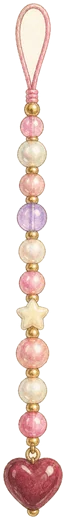
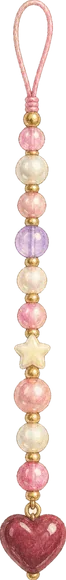
Add G7X looks, three painted digicam bodies and keychain skins; clear strap loop

Changed region(s): [[0.0, 0.0, 1.0, 1.0], [0.6667, 0.2769, 0.7576, 0.3077], [0.5455, 0.4923, 0.6061, 0.5231]]

diff --git a/style.css b/style.css
@@ -651,3 +651,67 @@ body[data-body="compact"] .menu { top: 56%; bottom: 2%; left: 4%; right: 4%; }
 .sticker-actions .pix-btn { flex: 1; }
 #stickerSize { flex: 1; accent-color: #e8ccd8; }
 .tab { padding-left: 0; padding-right: 0; font-size: clamp(12px, 4.3cqw, 16px) !important; letter-spacing: 0 !important; }
+
+/* ---------- painted digicams (sage, white, jewel): zoomed, painted buttons are live ---------- */
+body[data-kind="digi"] .cam::before, body[data-kind="digi"] .hit-power, body[data-kind="digi"] .peek,
+body[data-kind="digi"] #shutterLabel { display: none; }
+body[data-kind="digi"] .desk { --cam-w: min(94vw, calc((100dvh - 110px) * var(--ar)), 460px); }
+body[data-kind="digi"] .screen { left: var(--sl); top: var(--st); width: var(--sw); height: var(--sh); border-radius: 1.2cqw; }
+body[data-kind="digi"] .lug { left: 1.2%; top: 2.4%; }
+body[data-kind="digi"] .strap { left: -6%; top: 3.2%; height: 36%; }
+body[data-kind="digi"] .menu { top: 58%; bottom: 2%; left: 4%; right: 4%; }
+body[data-kind="digi"] .hit-pill span, body[data-kind="digi"] .hit-func span {
+  position: absolute; top: 100%; left: 50%; transform: translateX(-50%);
+  font-size: 3.4cqw; color: var(--graphite); text-shadow: 0 1px 0 rgba(255, 255, 255, 0.8); white-space: nowrap;
+}
+body[data-kind="digi"] .hit-pill, body[data-kind="digi"] .hit-func { border-radius: 40px; }
+body[data-kind="digi"] .hit-shutter { border-radius: 50%; }
+body[data-kind="digi"] .mode-label { font-size: 3.4cqw; }
+
+body[data-body="sage"] .desk { --ar: 0.6696; }
+body[data-body="sage"] .cam { aspect-ratio: 460 / 687; --sl: 8.1%; --st: 12.5%; --sw: 79.4%; --sh: 45.4%; }
+body[data-body="sage"] .hit-func { left: 11%; top: 65%; width: 13%; height: 5.4%; }
+body[data-body="sage"] .p1 { left: 11%; top: 72.2%; width: 13%; height: 5.4%; }
+body[data-body="sage"] .p2 { left: 11%; top: 79.4%; width: 13%; height: 5.4%; }
+body[data-body="sage"] .hit-func span, body[data-body="sage"] .p1 span, body[data-body="sage"] .p2 span { top: 50%; transform: translate(-50%, -50%); font-size: 3cqw; text-shadow: none; }
+body[data-body="sage"] .p3 { left: 40%; top: 89%; width: 16%; height: 7%; }
+body[data-body="sage"] .p3 span { top: 50%; left: auto; right: -8%; transform: translate(100%, -50%); }
+body[data-body="sage"] .dp-up { left: 40%; top: 63.5%; width: 15%; height: 6.5%; }
+body[data-body="sage"] .dp-down { left: 40%; top: 80.5%; width: 15%; height: 6.5%; }
+body[data-body="sage"] .dp-left { left: 30%; top: 70.5%; width: 10.5%; height: 9%; }
+body[data-body="sage"] .dp-right { left: 54.5%; top: 70.5%; width: 10.5%; height: 9%; }
+body[data-body="sage"] .hit-shutter { left: 41%; top: 71%; width: 13%; height: 8%; }
+body[data-body="sage"] .mode-switch { left: 74.5%; top: 66.5%; width: 11.5%; height: 19%; }
+body[data-body="sage"] .mode-label { left: 74.5%; top: 86.5%; width: 11.5%; }
+
+body[data-body="white"] .desk { --ar: 0.6216; }
+body[data-body="white"] .cam { aspect-ratio: 460 / 740; --sl: 10.4%; --st: 6.5%; --sw: 79.2%; --sh: 47.4%; }
+body[data-body="white"] .hit-func { left: 9%; top: 64%; width: 16%; height: 9.5%; border-radius: 50%; }
+body[data-body="white"] .p1 { left: 7%; top: 89%; width: 24%; height: 5.5%; }
+body[data-body="white"] .p2 { left: 38%; top: 89%; width: 24%; height: 5.5%; }
+body[data-body="white"] .p3 { left: 69%; top: 89%; width: 24%; height: 5.5%; }
+body[data-body="white"] .p1 span, body[data-body="white"] .p2 span, body[data-body="white"] .p3 span { top: 50%; transform: translate(-50%, -50%); font-size: 3.6cqw; }
+body[data-body="white"] .dp-up { left: 40%; top: 61.5%; width: 20%; height: 6.5%; }
+body[data-body="white"] .dp-down { left: 40%; top: 80%; width: 20%; height: 6.5%; }
+body[data-body="white"] .dp-left { left: 30%; top: 68%; width: 11%; height: 11.5%; }
+body[data-body="white"] .dp-right { left: 59%; top: 68%; width: 11%; height: 11.5%; }
+body[data-body="white"] .hit-shutter { left: 41%; top: 68%; width: 18%; height: 11.5%; }
+body[data-body="white"] .mode-switch { left: 77%; top: 64%; width: 11%; height: 19.5%; }
+body[data-body="white"] .mode-label { left: 77%; top: 83.5%; width: 11%; }
+
+body[data-body="jewel"] .desk { --ar: 0.638; }
+body[data-body="jewel"] .cam { aspect-ratio: 460 / 721; --sl: 10.1%; --st: 8.8%; --sw: 79.4%; --sh: 48.9%; }
+body[data-body="jewel"] .hit-func { left: 56%; top: 68.5%; width: 11%; height: 5.5%; }
+body[data-body="jewel"] .p1 { left: 68.5%; top: 68.5%; width: 11%; height: 5.5%; }
+body[data-body="jewel"] .p2 { left: 81%; top: 68.5%; width: 11%; height: 5.5%; }
+body[data-body="jewel"] .p3 { left: 8%; top: 80%; width: 14%; height: 9%; border-radius: 50%; }
+body[data-body="jewel"] .dp-up { left: 28%; top: 62%; width: 14%; height: 6.5%; }
+body[data-body="jewel"] .dp-down { left: 28%; top: 78%; width: 14%; height: 6.5%; }
+body[data-body="jewel"] .dp-left { left: 19%; top: 68%; width: 10.5%; height: 9%; }
+body[data-body="jewel"] .dp-right { left: 41.5%; top: 68%; width: 10.5%; height: 9%; }
+body[data-body="jewel"] .hit-shutter { left: 29.5%; top: 68.5%; width: 12%; height: 8.5%; }
+body[data-body="jewel"] .mode-switch { left: 57%; top: 79.3%; width: 31%; height: 7.5%; }
+body[data-body="jewel"] .mode-switch .mode { top: 0; bottom: auto; width: 50%; height: 100%; }
+body[data-body="jewel"] .mode-switch .mode[data-mode="video"] { left: 50%; }
+body[data-body="jewel"] .mode-switch .mode.active::after { right: auto; left: 50%; top: 112%; margin: 0 0 0 -3.5px; }
+body[data-body="jewel"] .mode-label { left: 57%; top: 88%; width: 31%; }

diff --git a/script.js b/script.js
@@ -916,6 +916,7 @@
       $("gridOverlay").hidden = !(app.mode === "camera" && app.grid);
     });
     makeChips($("deviceChips"), DEVICES, () => device, setDevice);
+    makeChips($("strapChips"), STRAPS, () => strapId, setStrap); paintStrap();
     paintBody();
     makeChips($("soundChips"), [{ id: "on", name: "Beep" }, { id: "off", name: "Quiet" }], () => (app.sound ? "on" : "off"), (v) => { app.sound = v === "on"; });
 
@@ -941,16 +942,41 @@
     { id: "phone4s", name: "White phone" },
     { id: "phone5c", name: "Lilac phone" },
     { id: "compact", name: "Silver compact" },
+    { id: "sage", name: "Sage bow cam" },
+    { id: "white", name: "Milk cam" },
+    { id: "jewel", name: "Jewel cam" },
   ];
+  const DIGI = ["sage", "white", "jewel"];
+  const STRAPS = [
+    { id: "beads", name: "Beads", src: "img/strap.webp", x: 0.506 },
+    { id: "silver", name: "Silver heart", src: "img/strap-silver.webp", x: 0.515 },
+    { id: "gingham", name: "Cherry bow", src: "img/strap-gingham.webp", x: 0.513 },
+    { id: "pearl", name: "Sakura pearl", src: "img/strap-pearl.webp", x: 0.514 },
+    { id: "clover", name: "Lucky clover", src: "img/strap-clover.webp", x: 0.444 },
+    { id: "bunny", name: "Bunny", src: "img/strap-bunny.webp", x: 0.532 },
+    { id: "none", name: "None" },
+  ];
+  let strapId = "beads";
+  try { const v = localStorage.getItem("tt-strap"); if (STRAPS.some((x) => x.id === v)) strapId = v; } catch (e) {}
+  function paintStrap() {
+    const k = STRAPS.find((x) => x.id === strapId), st = $("strap");
+    st.hidden = !k.src; document.querySelector(".lug").hidden = !k.src;
+    if (!k.src) return;
+    const place = () => { st.style.marginLeft = (-(k.x - 0.5) * st.offsetWidth) + "px"; st.style.transformOrigin = (k.x * 100) + "% 1.5%"; };
+    st.onload = place;
+    if (!st.src.endsWith(k.src + "?v=18")) st.src = k.src + "?v=18"; else place();
+    st.classList.remove("jiggle"); void st.offsetWidth; st.classList.add("jiggle");
+  }
+  function setStrap(id) { strapId = id; try { localStorage.setItem("tt-strap", id); } catch (e) {} paintStrap(); }
   let device = "pink";
   try { const d = localStorage.getItem("tt-device"); if (DEVICES.some((x) => x.id === d)) device = d; } catch (e) {}
   function paintBody() {
     const body = device;
     if (document.body.dataset.body === body) return;
     document.body.dataset.body = body;
-    $("camArt").src = body === "pink" ? "img/camera-blank.webp" : `img/body-${body}.webp?v=15`;
-    const st = $("strap");
-    st.classList.remove("jiggle"); void st.offsetWidth; st.classList.add("jiggle");
+    if (DIGI.includes(body)) document.body.dataset.kind = "digi"; else delete document.body.dataset.kind;
+    $("camArt").src = body === "pink" ? "img/camera-blank.webp" : `img/body-${body}.webp?v=18`;
+    requestAnimationFrame(() => paintStrap());
   }
   // sticker panel
   let ownStickers = [];
@@ -1803,7 +1829,7 @@
     if ("serviceWorker" in navigator && location.protocol === "https:") {
       navigator.serviceWorker.register("sw.js").catch(() => {});
     }
-    window.__tt = { app, get S() { return S; }, loadImageBlob, renderThumbs, renderPreview, stepLook, setMode, startLoop };
+    window.__tt = { app, get S() { return S; }, renderStill, loadImageBlob, renderThumbs, renderPreview, stepLook, setMode, startLoop };
   }
 
   boot();

diff --git a/index.html b/index.html
@@ -17,7 +17,7 @@
   <link rel="preconnect" href="https://fonts.googleapis.com">
   <link rel="preconnect" href="https://fonts.gstatic.com" crossorigin>
   <link href="https://fonts.googleapis.com/css2?family=Cherry+Bomb+One&family=Pixelify+Sans:wght@400;600&display=swap" rel="stylesheet">
-  <link rel="stylesheet" href="style.css?v=16">
+  <link rel="stylesheet" href="style.css?v=18">
 </head>
 <body class="mode-empty" data-body="pink">
   <div class="desk">
@@ -38,7 +38,7 @@
     <main class="cam" id="cam">
       <img class="cam-art" id="camArt" src="img/camera-blank.webp" alt="" aria-hidden="true">
       <i class="lug" aria-hidden="true"></i>
-      <img class="strap" id="strap" src="img/strap.webp" alt="" aria-hidden="true">
+      <img class="strap" id="strap" src="img/strap.webp?v=18" alt="" aria-hidden="true">
 
       <button id="powerBtn" class="hit hit-power" type="button" aria-label="Power camera on or off"><i class="led"></i></button>
 
@@ -141,6 +141,8 @@
           <div class="panel" id="panel-setup">
             <p class="menu-label">DEVICE</p>
             <div class="chips" id="deviceChips"></div>
+            <p class="menu-label">KEYCHAIN</p>
+            <div class="chips" id="strapChips"></div>
             <p class="menu-label">PICTURE SIZE</p>
             <div class="chips" id="aspectChips"></div>
             <p class="menu-label">GRID</p>
@@ -240,7 +242,7 @@
   <div id="toast" class="toast" hidden></div>
 
   <video id="video" playsinline muted hidden></video>
-  <script src="filters.js?v=16"></script>
-  <script src="script.js?v=16"></script>
+  <script src="filters.js?v=18"></script>
+  <script src="script.js?v=18"></script>
 </body>
 </html>

diff --git a/filters.js b/filters.js
@@ -54,6 +54,14 @@
       r: [14, 70, 136, 206, 250], g: [14, 70, 134, 200, 244], b: [22, 76, 130, 190, 232],
       sat: -0.05, con: -0.08, fade: 0.1, sh: [-0.03, 0.01, 0.03], hi: [0.04, 0.02, -0.02],
       fx: { hal: 0.35, grain: 0.3, glow: 0.1, vig: 0.15 } }),
+    P({ id: "g7x", name: "G7X", group: "cams", cam: "digicam", blurb: "The vlogger compact: clean, bright, glowy skin, rich Canon reds and creamy highlights.",
+      r: [4, 68, 140, 212, 255], g: [2, 64, 134, 208, 254], b: [4, 64, 132, 208, 255],
+      sat: 0.14, con: 0.08, bri: 0.03, temp: 0.02, tint: -0.05, hi: [-0.012, 0, 0.012],
+      fx: { glow: 0.16, sharp: 0.08, vig: 0.08 } }),
+    P({ id: "g7xflash", name: "G7X Flash", group: "cams", cam: "digicam", blurb: "G7X at night with the flash popped: bright glossy faces, dark background, a soft glow.",
+      r: [0, 60, 140, 218, 255], g: [0, 56, 132, 210, 252], b: [2, 58, 130, 204, 248],
+      sat: 0.12, con: 0.16, bri: 0.02, temp: 0.03, tint: -0.05, hi: [-0.01, 0, 0.01],
+      fx: { flash: 0.32, glow: 0.18, sharp: 0.06, vig: 0.14 } }),
     P({ id: "kh", name: "KH Webcam", group: "cams", cam: "digicam", blurb: "2009 laptop webcam: green smear, chunky pixels.",
       r: [10, 62, 124, 196, 250], g: [16, 74, 140, 210, 255], b: [8, 56, 116, 186, 240],
       sat: -0.15, con: 0.1, bri: -0.04,

diff --git a/sw.js b/sw.js
@@ -1,5 +1,5 @@
 /* Tumblr Tone service worker: network first, cache fallback so the darkroom opens offline. */
-const CACHE = "tumblrtone-v16";
+const CACHE = "tumblrtone-v18";
 const FILES = ["./", "index.html", "style.css?v=7", "filters.js?v=7", "script.js?v=7", "manifest.webmanifest", "icon-192.png", "icon-512.png", "apple-touch-icon.png"];
 
 self.addEventListener("install", (e) => {
